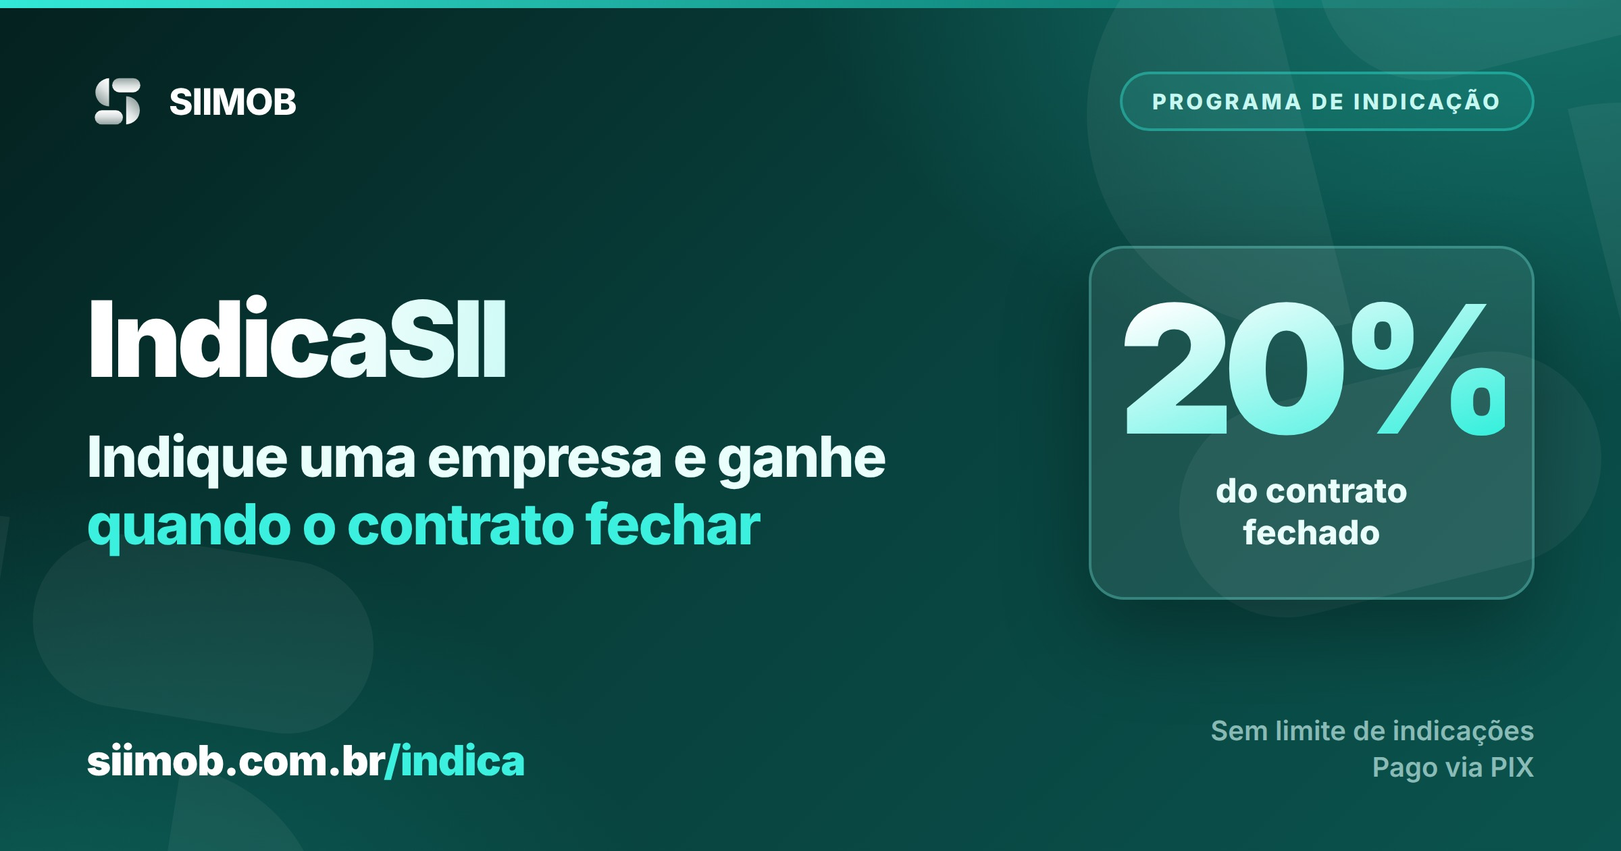
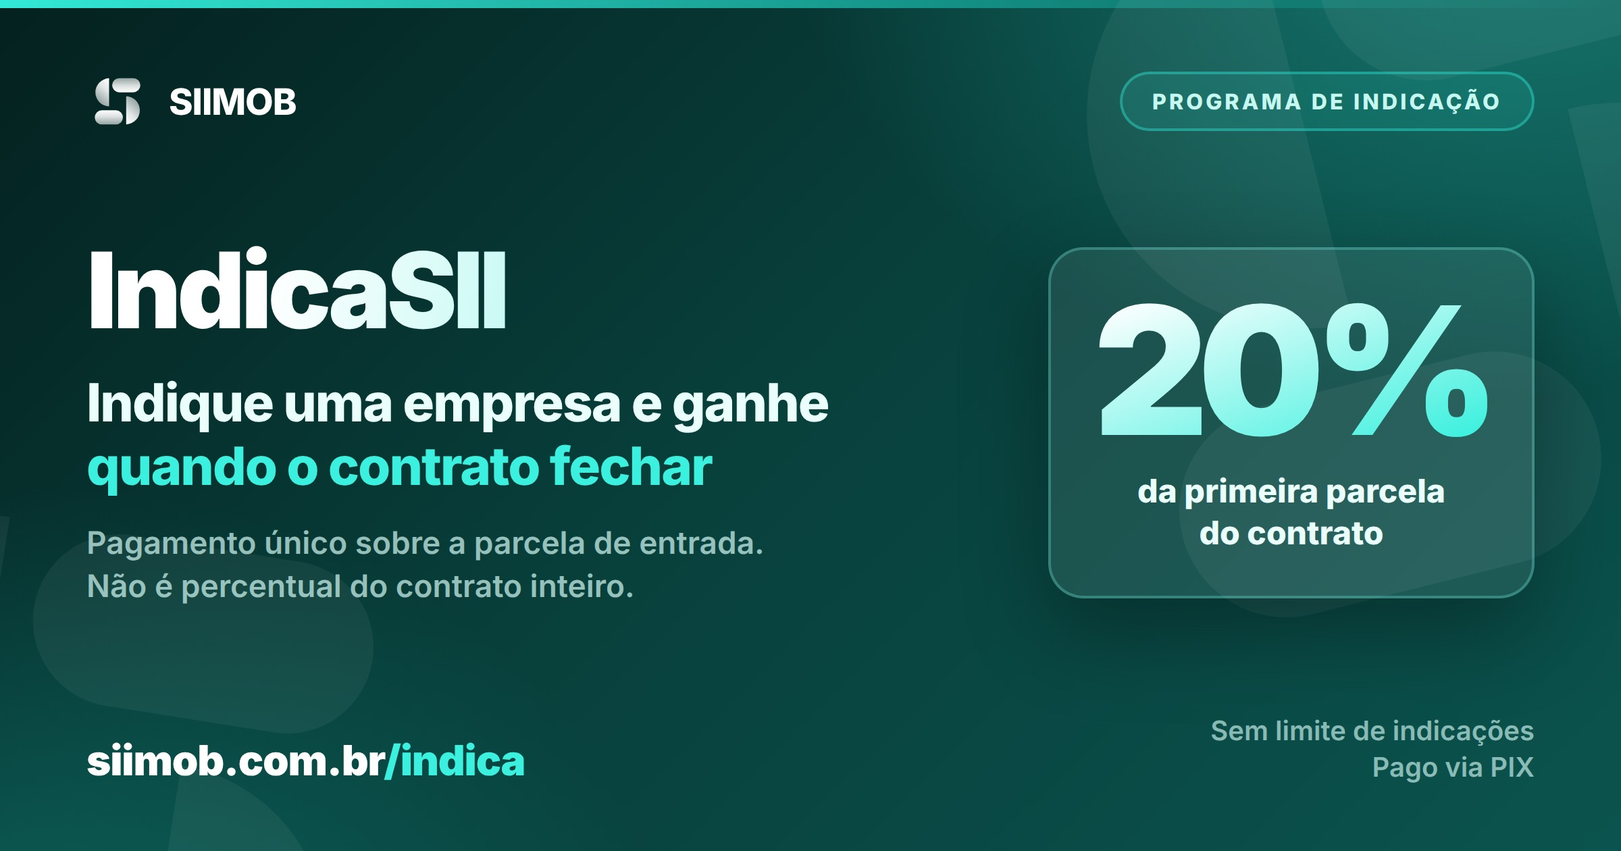
IndicaSII: a recompensa e 20% da PRIMEIRA PARCELA, nao do contrato
"20% do contrato" se le como 20% do valor total do contrato. A regra real e
20% da primeira parcela paga pela empresa indicada, uma unica vez, e a
diferenca entre as duas leituras e grande o bastante para virar discussao
com quem indicou. Trocado em todo lugar que fala do programa:

- indica.html: title, description, OpenGraph, Twitter, hero, passo 3,
  simulador e a nota do simulador. O slider deixou de ser "valor de cada
  contrato" e passou a ser "valor da primeira parcela", com teto de 5.000
  no lugar de 60.000 - um contrato inteiro de 60 mil nao e uma parcela.
- indica-config.js: as chaves viraram parcelaExemplo/Min/Max/Passo, com o
  comentario dizendo por que nenhum texto pode abreviar a regra. Nova
  pergunta nas duvidas explicando a base de calculo com exemplo.
- indica-cadastro.html: a regra aparece no momento do aceite, nao so no
  regulamento - e ali que a pessoa decide.
- superadmin: a coluna virou "1a parcela" e o campo diz do que se trata.
- SQL: valor_contrato virou valor_primeira_parcela, com renomeacao
  condicional para quem ja tiver rodado a versao anterior. Validado em
  Postgres 16 nos dois cenarios, com o dado antigo sobrevivendo.
- Banner do mural: o cartao diz "da primeira parcela do contrato" e a arte
  ganhou a linha "pagamento unico sobre a parcela de entrada".

A suite do IndicaSII passa com 61 verificacoes, entre elas uma que varre o
texto visivel da pagina e falha se "20% do contrato" reaparecer solto.
[…]

diff --git a/indica.html b/indica.html
@@ -3,8 +3,8 @@
 <head>
   <meta charset="UTF-8">
   <meta name="viewport" content="width=device-width, initial-scale=1">
-  <title>IndicaSII — indique uma empresa e ganhe 20% do contrato | SIIMOB</title>
-  <meta name="description" content="Indique construtoras, imobiliárias e correspondentes para o SIIMOB. Contrato fechado, você recebe 20% do valor. Sem limite de indicações e com acompanhamento online.">
+  <title>IndicaSII — indique e ganhe 20% da primeira parcela | SIIMOB</title>
+  <meta name="description" content="Indique construtoras, imobiliárias e correspondentes para o SIIMOB. Contrato fechado, você recebe 20% da primeira parcela, uma única vez. Sem limite de indicações e com acompanhamento online.">
   <link rel="canonical" href="https://siimob.com.br/indica">
   <link rel="icon" href="/favicon.svg" type="image/svg+xml">
   <link rel="icon" href="/favicon-32.png" sizes="32x32" type="image/png">
@@ -13,13 +13,13 @@
 
   <meta property="og:type" content="website">
   <meta property="og:site_name" content="SIIMOB">
-  <meta property="og:title" content="IndicaSII — indique e ganhe 20% do contrato fechado">
-  <meta property="og:description" content="Você conhece uma empresa que ainda controla repasse em planilha? Indique para o SIIMOB e receba 20% do contrato fechado.">
+  <meta property="og:title" content="IndicaSII — indique e ganhe 20% da primeira parcela">
+  <meta property="og:description" content="Você conhece uma empresa que ainda controla repasse em planilha? Indique para o SIIMOB e receba 20% da primeira parcela que ela pagar.">
   <meta property="og:url" content="https://siimob.com.br/indica">
   <meta property="og:image" content="https://siimob.com.br/icon-512.png">
   <meta name="twitter:card" content="summary_large_image">
-  <meta name="twitter:title" content="IndicaSII — indique e ganhe 20% do contrato fechado">
-  <meta name="twitter:description" content="Indique empresas do mercado imobiliário para o SIIMOB e seja recompensado quando virar contrato.">
+  <meta name="twitter:title" content="IndicaSII — indique e ganhe 20% da primeira parcela">
+  <meta name="twitter:description" content="Indique empresas do mercado imobiliário para o SIIMOB e receba 20% da primeira parcela quando virar contrato.">
   <meta name="twitter:image" content="https://siimob.com.br/icon-512.png">
 
   <link rel="preconnect" href="https://fonts.googleapis.com">
@@ -364,12 +364,12 @@
   <div class="cx hero-grade">
     <div>
       <span class="sobrancelha">Programa oficial de indicação</span>
-      <h1>Sua indicação pode valer <em id="hero-valor">R$ 2.400</em></h1>
+      <h1>Sua indicação pode valer <em id="hero-valor">R$ 300</em></h1>
       <p class="lead">
         Indique construtoras, imobiliárias e correspondentes que ainda controlam repasse
         em planilha. Quando a indicação vira contrato, você recebe
-        <strong id="hero-perc">20%</strong> do valor fechado. Você não precisa vender nada —
-        a conversa comercial é nossa.
+        <strong id="hero-perc">20%</strong> da primeira parcela que ela pagar — pagamento
+        único, sem recorrência. Você não precisa vender nada: a conversa comercial é nossa.
       </p>
       <div class="hero-ctas">
         <a class="btn btn-1 btn-lg" href="#cadastro">Quero indicar</a>
@@ -401,7 +401,7 @@
           </span>
           <div class="ganho">
             <div class="ganho-l">Sua recompensa</div>
-            <div class="ganho-v" id="visor-ganho">R$ 2.400</div>
+            <div class="ganho-v" id="visor-ganho">R$ 300</div>
           </div>
         </div>
       </div>
@@ -468,7 +468,7 @@
         <span class="passo-n">03</span>
         <div class="icone"><svg width="22" height="22" viewBox="0 0 24 24" fill="none" stroke="currentColor" stroke-width="2" stroke-linecap="round" stroke-linejoin="round" aria-hidden="true"><path d="M12 1v22M17 5H9.5a3.5 3.5 0 0 0 0 7h5a3.5 3.5 0 0 1 0 7H6"/></svg></div>
         <h3>Você recebe</h3>
-        <p>Contrato assinado e primeiro pagamento confirmado, a recompensa fica disponível no painel e vai para a chave PIX que você cadastrou.</p>
+        <p>Contrato assinado e primeira parcela confirmada, os 20% dessa parcela ficam disponíveis no painel e vão para a chave PIX que você cadastrou. É um pagamento único, por indicação.</p>
       </article>
     </div>
   </div>
@@ -481,7 +481,7 @@
       <div>
         <span class="sobrancelha" style="color:var(--azul-cl)">Estimativa de ganhos</span>
         <h2>Veja quanto você pode ganhar</h2>
-        <p class="lead">Mexa nos controles. A conta é direta: <strong id="sim-formula">20%</strong> do valor do contrato, vezes o número de indicações que virarem cliente.</p>
+        <p class="lead">Mexa nos controles. A conta é direta: <strong id="sim-formula">20%</strong> da <strong>primeira parcela</strong> que cada empresa pagar, vezes o número de indicações que virarem cliente. Não é percentual do contrato inteiro.</p>
 
         <div class="sim-ctrl">
           <div class="sim-lin">
@@ -494,20 +494,20 @@
 
         <div class="sim-ctrl">
           <div class="sim-lin">
-            <label class="sim-lab" for="sim-val">Valor de cada contrato</label>
-            <output class="sim-val" id="sim-val-v" for="sim-val">R$ 12.000</output>
+            <label class="sim-lab" for="sim-val">Valor da primeira parcela</label>
+            <output class="sim-val" id="sim-val-v" for="sim-val">R$ 1.500</output>
           </div>
-          <input type="range" id="sim-val" min="600" max="60000" step="100" value="12000"
-                 aria-label="Valor estimado de cada contrato">
+          <input type="range" id="sim-val" min="600" max="5000" step="50" value="1500"
+                 aria-label="Valor estimado da primeira parcela do contrato">
         </div>
       </div>
 
       <div class="sim-res">
         <div class="sim-res-l">Você pode ganhar</div>
-        <div class="sim-res-v" id="sim-total" aria-live="polite">R$ 2.400</div>
-        <div class="sim-res-c" id="sim-conta">1 contrato de R$ 12.000 × 20%</div>
+        <div class="sim-res-v" id="sim-total" aria-live="polite">R$ 300</div>
+        <div class="sim-res-c" id="sim-conta">20% de R$ 1.500 × 1 indicação</div>
         <a class="btn btn-claro btn-lg" href="#cadastro" style="width:100%;margin-top:1.4rem">Começar a indicar</a>
-        <p class="sim-nota">Simulação. O valor real depende do contrato que a empresa indicada fechar.</p>
+        <p class="sim-nota">Simulação. O valor real depende da primeira parcela do contrato que a empresa indicada fechar. A recompensa incide só sobre essa parcela e é paga uma única vez.</p>
       </div>
     </div>
   </div>
@@ -522,7 +522,7 @@
       <p class="lead" style="margin-top:1rem">
         Não existe limite de indicações nem prazo para participar. Cada empresa que você
         apresenta é acompanhada separadamente, e cada contrato fechado gera a sua
-        recompensa — inclusive quando fecham no mesmo mês.
+        recompensa sobre a primeira parcela dele — inclusive quando fecham no mesmo mês.
       </p>
       <p class="lead" style="margin-top:.9rem">
         O painel mostra o andamento de cada uma, o que já está disponível para receber e
@@ -606,7 +606,7 @@
     <div class="centro surge">
       <span class="sobrancelha">Dois caminhos</span>
       <h2>Qual programa combina com você?</h2>
-      <p class="lead">Indicar de vez em quando e receber por contrato fechado, ou atuar comercialmente junto com a gente.</p>
+      <p class="lead">Indicar de vez em quando e receber sobre a primeira parcela de cada contrato fechado, ou atuar comercialmente junto com a gente.</p>
     </div>
     <div class="comp" id="comp"></div>
   </div>
@@ -756,7 +756,8 @@ const reservado = s => String(s || '').trim().startsWith('[');
 const brl = new Intl.NumberFormat('pt-BR', { style:'currency', currency:'BRL', maximumFractionDigits:0 });
 const brlExato = new Intl.NumberFormat('pt-BR', { style:'currency', currency:'BRL' });
 const R = INDICA.recompensa;
-const comissao = (valorContrato, qtd = 1) => valorContrato * (R.percentual / 100) * qtd;
+// A recompensa incide sobre a PRIMEIRA PARCELA, nunca sobre o contrato inteiro.
+const comissao = (primeiraParcela, qtd = 1) => primeiraParcela * (R.percentual / 100) * qtd;
 
 $('ano').textContent = new Date().getFullYear();
 
@@ -783,14 +784,14 @@ addEventListener('scroll', () => { $('topo').classList.toggle('rolou', scrollY >
 
 // ═══ hero e simulador ════════════════════════════════════════════════════════
 $('hero-perc').textContent  = R.percentual + '%';
-$('hero-valor').textContent = brl.format(comissao(R.contratoExemplo));
-$('visor-ganho').textContent = brl.format(comissao(R.contratoExemplo));
+$('hero-valor').textContent = brl.format(comissao(R.parcelaExemplo));
+$('visor-ganho').textContent = brl.format(comissao(R.parcelaExemplo));
 $('sim-formula').textContent = R.percentual + '%';
 
 const sQtd = $('sim-qtd'), sVal = $('sim-val');
 sQtd.max = R.maxIndicacoes;
-sVal.min = R.contratoMin; sVal.max = R.contratoMax; sVal.step = R.contratoPasso;
-sVal.value = R.contratoExemplo;
+sVal.min = R.parcelaMin; sVal.max = R.parcelaMax; sVal.step = R.parcelaPasso;
+sVal.value = R.parcelaExemplo;
 
 function calcular(){
   const q = +sQtd.value, v = +sVal.value;
@@ -798,7 +799,7 @@ function calcular(){
   $('sim-val-v').textContent = brl.format(v);
   $('sim-total').textContent = brl.format(comissao(v, q));
   $('sim-conta').textContent =
-    `${q} contrato${q>1?'s':''} de ${brl.format(v)} × ${R.percentual}%`;
+    `${R.percentual}% de ${brl.format(v)} × ${q} indicaç${q>1?'ões':'ão'}`;
 }
 sQtd.addEventListener('input', calcular);
 sVal.addEventListener('input', calcular);
@@ -809,10 +810,10 @@ $('escada').innerHTML = [1,2,3,5].map(n => `
   <div class="degrau">
     <div class="degrau-n">${n}</div>
     <div class="degrau-t">${n === 1 ? 'indicação convertida' : 'indicações convertidas'}</div>
-    <div class="degrau-v">${brl.format(comissao(R.contratoExemplo, n))}</div>
+    <div class="degrau-v">${brl.format(comissao(R.parcelaExemplo, n))}</div>
   </div>`).join('') +
   `<p style="font-size:.78rem;color:var(--t3);margin-top:.4rem;line-height:1.5">
-     Exemplos considerando contratos de ${brl.format(R.contratoExemplo)}. Mexa no simulador acima para outros valores.
+     Exemplos considerando primeira parcela de ${brl.format(R.parcelaExemplo)} em cada contrato, com a recompensa paga uma vez por indicação. Mexa no simulador acima para outros valores.
    </p>`;
 
 // ═══ diferenciais ════════════════════════════════════════════════════════════

diff --git a/js/indica-config.js b/js/indica-config.js
@@ -13,20 +13,27 @@ const INDICA = {
   siteInstitucional: '/conheca',
 
   // ─── A regra do programa ───────────────────────────────────────────────────
-  // A recompensa é percentual sobre o contrato fechado, não valor fixo.
+  // LEIA ANTES DE MEXER NOS TEXTOS.
+  // A recompensa é 20% da PRIMEIRA PARCELA paga pela empresa indicada, uma
+  // única vez. NÃO é 20% do valor total do contrato e NÃO é recorrente.
+  // Nenhum texto do programa pode dizer apenas "20% do contrato": lido de
+  // fora, isso significa 20% do contrato inteiro, e a diferença entre uma
+  // coisa e outra é grande o bastante para virar discussão. Sempre escreva
+  // "da primeira parcela" e diga que o pagamento é único.
   recompensa: {
-    percentual: 20,          // % do valor do contrato fechado
-    // O simulador precisa de um valor de contrato para mostrar uma conta. Este
-    // é um EXEMPLO para a simulação — quem usa a página pode mudar no próprio
-    // simulador. Ajuste aqui o valor que melhor representa seus contratos.
-    contratoExemplo: 12000,
-    // Piso do programa: o menor contrato aceito é R$ 600 — 20% disso são
-    // R$ 120, a menor comissão possível. O simulador começa exatamente daí.
-    contratoMin: 600,
-    contratoMax: 60000,
-    // Passo de 100 para que o piso de 600 seja alcançável e os valores baixos
-    // tenham granularidade, sem deixar o arrasto até 60.000 travado.
-    contratoPasso: 100,
+    percentual: 20,                        // % da primeira parcela
+    base: 'primeira parcela do contrato',  // aparece nos textos da página
+    // Valores do simulador. Todos são PRIMEIRA PARCELA (a mensalidade de
+    // entrada), nunca o contrato inteiro. Ajuste ao que a sua tabela de
+    // planos pratica — o simulador é só uma conta, não uma promessa.
+    parcelaExemplo: 1500,
+    // Piso do programa: a menor primeira parcela aceita é R$ 600 — 20% disso
+    // são R$ 120, a menor recompensa possível. O simulador começa daí.
+    parcelaMin: 600,
+    parcelaMax: 5000,
+    // Passo de 50 para o piso de 600 ser alcançável e os valores baixos
+    // terem granularidade.
+    parcelaPasso: 50,
     maxIndicacoes: 10,
   },
 
@@ -74,7 +81,7 @@ const INDICA = {
       resumo: 'Para quem conhece alguém que precisa do sistema e quer ser reconhecido por isso.',
       itens: [
         { rotulo:'Para quem',      valor:'Qualquer pessoa. Não precisa ser cliente.' },
-        { rotulo:'Recompensa',     valor:'PERCENTUAL do contrato fechado.' },
+        { rotulo:'Recompensa',     valor:'PERCENTUAL da primeira parcela, pago uma vez.' },
         { rotulo:'O que você faz', valor:'Indica e pronto. A conversa comercial é nossa.' },
         { rotulo:'Acompanhamento', valor:'Painel próprio, com o andamento de cada indicação.' },
         { rotulo:'Limite',         valor:'Nenhum. Indique quantas empresas quiser.' },
@@ -109,22 +116,24 @@ const INDICA = {
 
   // ─── Dúvidas ───────────────────────────────────────────────────────────────
   duvidas: [
+    { p:'Os 20% são sobre o quê, exatamente?',
+      r:'Sobre a primeira parcela paga pela empresa que você indicou — a mensalidade de entrada do contrato. Não são 20% do valor total do contrato, e não é um valor que se repete todo mês: a recompensa é paga uma única vez por indicação convertida. Exemplo: se a primeira parcela for de R$ 1.000, você recebe R$ 200.' },
     { p:'Quem pode participar?',
       r:'Qualquer pessoa maior de idade, com CPF ou CNPJ. Você não precisa ser cliente do SIIMOB nem trabalhar no mercado imobiliário — basta conhecer uma empresa que se encaixe.' },
     { p:'Posso indicar uma empresa que já é cliente?',
       r:'Não. Se a empresa já usa o SIiMOB ou já estava em negociação conosco antes da sua indicação, ela não gera recompensa. Você vê isso no seu painel, marcada como não elegível.' },
     { p:'Quando eu recebo?',
-      r:'Depois que o contrato é assinado e o primeiro pagamento é confirmado. Aí a recompensa entra como disponível no seu painel e é enviada para a chave PIX que você cadastrou.' },
+      r:'Depois que o contrato é assinado e a primeira parcela é confirmada. Aí os 20% dessa parcela entram como disponíveis no seu painel e são enviados para a chave PIX que você cadastrou. É um pagamento único, por indicação.' },
     { p:'Como acompanho minha indicação?',
       r:'Ao enviar a primeira indicação você recebe um link pessoal. Por ele, a qualquer momento, você vê em que pé está cada empresa que indicou e quanto tem a receber.' },
     { p:'Existe limite de indicações?',
-      r:'Não. Indique quantas empresas quiser. Cada uma é acompanhada separadamente e cada contrato fechado gera a sua recompensa.' },
+      r:'Não. Indique quantas empresas quiser. Cada uma é acompanhada separadamente e cada contrato fechado gera a sua recompensa sobre a primeira parcela dele.' },
     { p:'A mesma empresa pode ser indicada por duas pessoas?',
       r:'Vale a primeira indicação registrada. Por isso, se você já conversou com alguém, não deixe para depois.' },
     { p:'O que acontece depois que eu indico?',
       r:'Nossa equipe comercial entra em contato com a empresa, apresenta o sistema e conduz a negociação. Você não precisa participar — mas pode acompanhar tudo pelo painel.' },
     { p:'Qual a diferença para o programa de parceria?',
-      r:'Na indicação você apenas apresenta a empresa e recebe pelo contrato fechado. Na parceria você atua junto com a gente na conversa comercial, com modelo de remuneração combinado à parte.' },
+      r:'Na indicação você apenas apresenta a empresa e recebe 20% da primeira parcela do contrato fechado, uma vez. Na parceria você atua junto com a gente na conversa comercial, com modelo de remuneração combinado à parte, que pode incluir recorrência.' },
   ],
 
   // ─── Menu ──────────────────────────────────────────────────────────────────

diff --git a/superadmin.html b/superadmin.html
@@ -753,9 +753,11 @@ async function loadIndicacoes() {
   renderIndicacoes();
 }
 
+// A recompensa é percentual da PRIMEIRA PARCELA paga pela empresa indicada,
+// nunca do valor total do contrato, e sai uma única vez.
 function comissaoDe(i){
-  return i.status === 'fechado' && i.valor_contrato
-    ? Number(i.valor_contrato) * (Number(i.percentual||20)/100) : 0;
+  return i.status === 'fechado' && i.valor_primeira_parcela
+    ? Number(i.valor_primeira_parcela) * (Number(i.percentual||20)/100) : 0;
 }
 
 function renderIndicacoes() {
@@ -772,7 +774,7 @@ function renderIndicacoes() {
   }
   const th = t => `<th style="text-align:left;padding:.5rem;border-bottom:1px solid var(--border);font-size:.63rem;text-transform:uppercase;letter-spacing:.07em;color:var(--t3)">${t}</th>`;
   box.innerHTML = `<div style="overflow-x:auto"><table style="width:100%;border-collapse:collapse;font-size:.82rem">
-    <thead><tr>${th('Empresa indicada')}${th('Quem indicou')}${th('Situação')}${th('Valor do contrato')}${th('Recompensa')}${th('')}</tr></thead>
+    <thead><tr>${th('Empresa indicada')}${th('Quem indicou')}${th('Situação')}${th('1ª parcela')}${th('Recompensa')}${th('')}</tr></thead>
     <tbody>${INDICACOES.map(i => {
       const q = i.a1_indicadores || {};
       const com = comissaoDe(i);
@@ -794,10 +796,11 @@ function renderIndicacoes() {
           </select>
         </td>
         <td style="padding:.6rem .5rem;border-bottom:1px solid #f1f5f9">
-          <input type="number" value="${i.valor_contrato||''}" placeholder="0,00" step="0.01"
+          <input type="number" value="${i.valor_primeira_parcela||''}" placeholder="0,00" step="0.01"
+            title="Valor da primeira parcela paga pela empresa indicada — não o total do contrato"
             onchange="mudarValorIndicacao('${i.id}', this.value)"
             style="width:110px;font-size:.78rem;padding:.25rem .4rem;border:1px solid var(--border);border-radius:6px">
-          <div style="color:var(--t3);font-size:.68rem;margin-top:.1rem">${i.percentual||20}% para quem indicou</div>
+          <div style="color:var(--t3);font-size:.68rem;margin-top:.1rem">${i.percentual||20}% da 1ª parcela</div>
         </td>
         <td style="padding:.6rem .5rem;border-bottom:1px solid #f1f5f9;font-weight:800;color:${com?'#12B981':'var(--t3)'}">
           ${com ? brlSA(com) : '—'}
@@ -822,7 +825,7 @@ async function patchIndicacao(id, corpo, msg) {
 function mudarStatusIndicacao(id, status) { patchIndicacao(id, { status }, 'Situação atualizada'); }
 function mudarValorIndicacao(id, valor) {
   const v = parseFloat(String(valor).replace(',','.'));
-  patchIndicacao(id, { valor_contrato: isFinite(v) && v > 0 ? v : null }, 'Valor do contrato salvo');
+  patchIndicacao(id, { valor_primeira_parcela: isFinite(v) && v > 0 ? v : null }, 'Valor da primeira parcela salvo');
 }
 function marcarPagoIndicacao(id) {
   const i = INDICACOES.find(x => x.id === id);

diff --git a/assets/banners/indicasii-mural.html b/assets/banners/indicasii-mural.html
@@ -25,15 +25,17 @@
     letter-spacing:.13em;color:#C6F8F1;border:2px solid rgba(51,233,215,.40);
     background:rgba(51,233,215,.10);border-radius:100px;padding:10px 22px}
 
-  .meio{flex:1;display:grid;grid-template-columns:minmax(0,1fr) 330px;gap:44px;
+  .meio{flex:1;display:grid;grid-template-columns:minmax(0,1fr) 360px;gap:40px;
     align-items:center;position:relative;z-index:2}
 
   .prog{font-size:78px;font-weight:900;letter-spacing:-.04em;line-height:1;
     background:linear-gradient(100deg,#FFFFFF 20%,#6FF1E3 94%);
     -webkit-background-clip:text;background-clip:text;color:transparent}
-  h1{margin-top:24px;font-size:42px;line-height:1.2;font-weight:800;letter-spacing:-.025em;
+  h1{margin-top:22px;font-size:39px;line-height:1.2;font-weight:800;letter-spacing:-.025em;
     color:#EAFFFC;max-width:640px}
   h1 em{font-style:normal;color:#3BF0DE}
+  .nota{margin-top:16px;font-size:23px;line-height:1.4;font-weight:600;
+    color:rgba(206,244,239,.72);max-width:620px}
 
   .cartao{background:rgba(255,255,255,.08);border:2px solid rgba(120,240,225,.30);
     border-radius:26px;padding:34px 20px 30px;text-align:center;
@@ -41,7 +43,7 @@
   .cartao .n{font-size:132px;line-height:.84;font-weight:900;letter-spacing:-.06em;
     background:linear-gradient(160deg,#FFFFFF 6%,#3BF0DE 94%);
     -webkit-background-clip:text;background-clip:text;color:transparent}
-  .cartao .t{margin-top:20px;font-size:25px;font-weight:800;color:#EAFFFC;line-height:1.25}
+  .cartao .t{margin-top:18px;font-size:24px;font-weight:800;color:#EAFFFC;line-height:1.3}
 
   footer{display:flex;align-items:flex-end;gap:20px;position:relative;z-index:2}
   .url{font-size:31px;font-weight:900;letter-spacing:-.02em;color:#fff}
@@ -80,10 +82,11 @@
     <div>
       <div class="prog">IndicaSII</div>
       <h1>Indique uma empresa e ganhe<br><em>quando o contrato fechar</em></h1>
+      <p class="nota">Pagamento único sobre a parcela de entrada.<br>Não é percentual do contrato inteiro.</p>
     </div>
     <div class="cartao">
       <div class="n">20%</div>
-      <div class="t">do contrato<br>fechado</div>
+      <div class="t">da primeira parcela<br>do contrato</div>
     </div>
   </div>
 

diff --git a/indica-cadastro.html b/indica-cadastro.html
@@ -196,6 +196,17 @@
           <textarea id="f-obs" rows="3" placeholder="O que eles usam hoje, qual a dificuldade, quem apresentar..."></textarea>
         </div>
 
+        <!-- A regra da recompensa fica escrita no momento do aceite, e não só no
+             regulamento: é aqui que a pessoa decide, e "20% do contrato" lido
+             solto significa outra coisa. -->
+        <p style="font-size:.82rem;line-height:1.6;color:var(--t2);background:#F1F5F9;
+                  border:1px solid #E2E8F0;border-radius:10px;padding:.8rem .9rem;margin-top:1.4rem">
+          <strong style="color:var(--t1)">Como é a recompensa:</strong> 20% da
+          <strong style="color:var(--t1)">primeira parcela</strong> paga pela empresa indicada,
+          uma única vez, depois que o contrato for assinado e essa parcela confirmada.
+          Não é percentual do valor total do contrato e não é recorrente.
+        </p>
+
         <label class="aceite">
           <input type="checkbox" id="f-aceite">
           <span>Li e aceito o <a href="/indica#duvidas">regulamento do programa</a> e a
